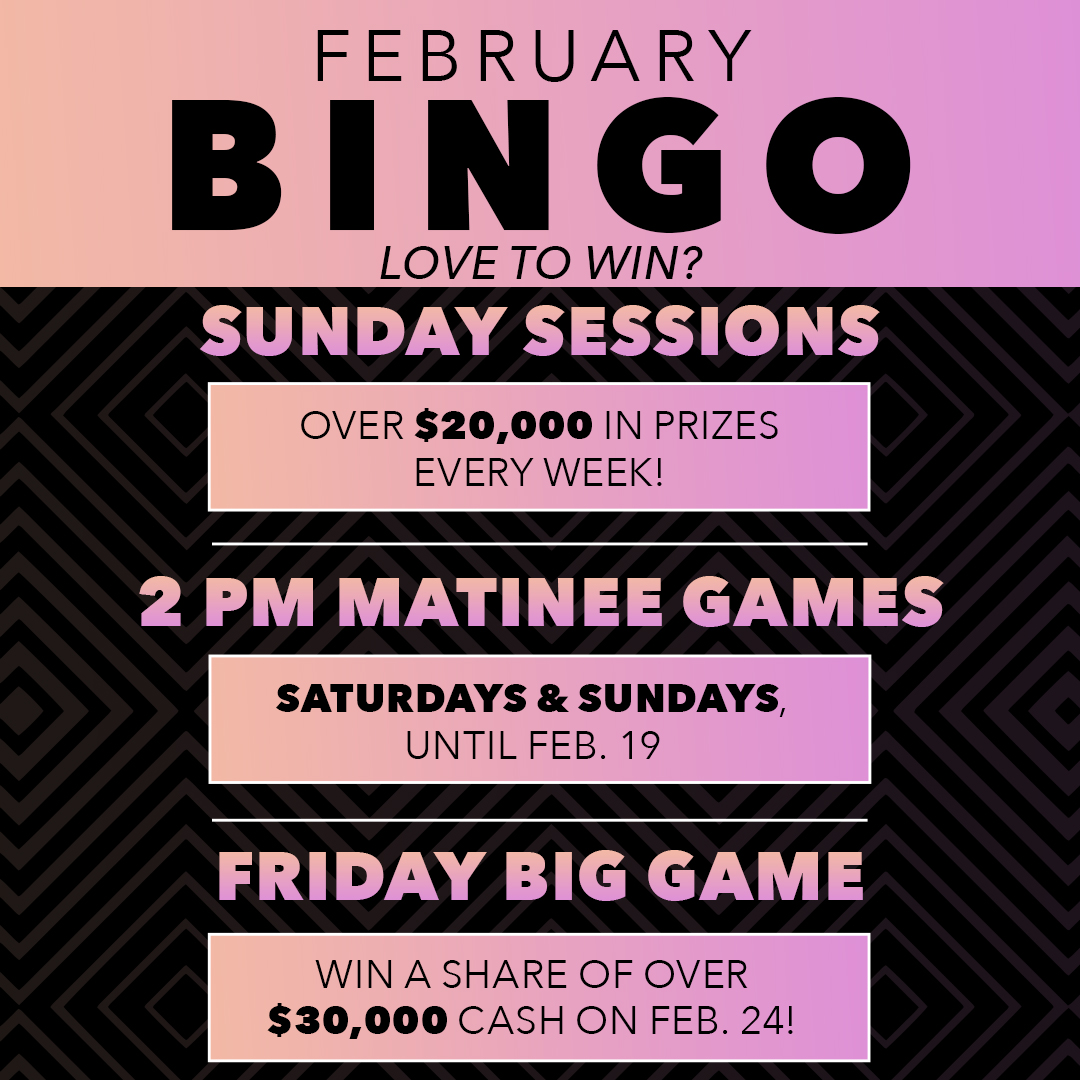
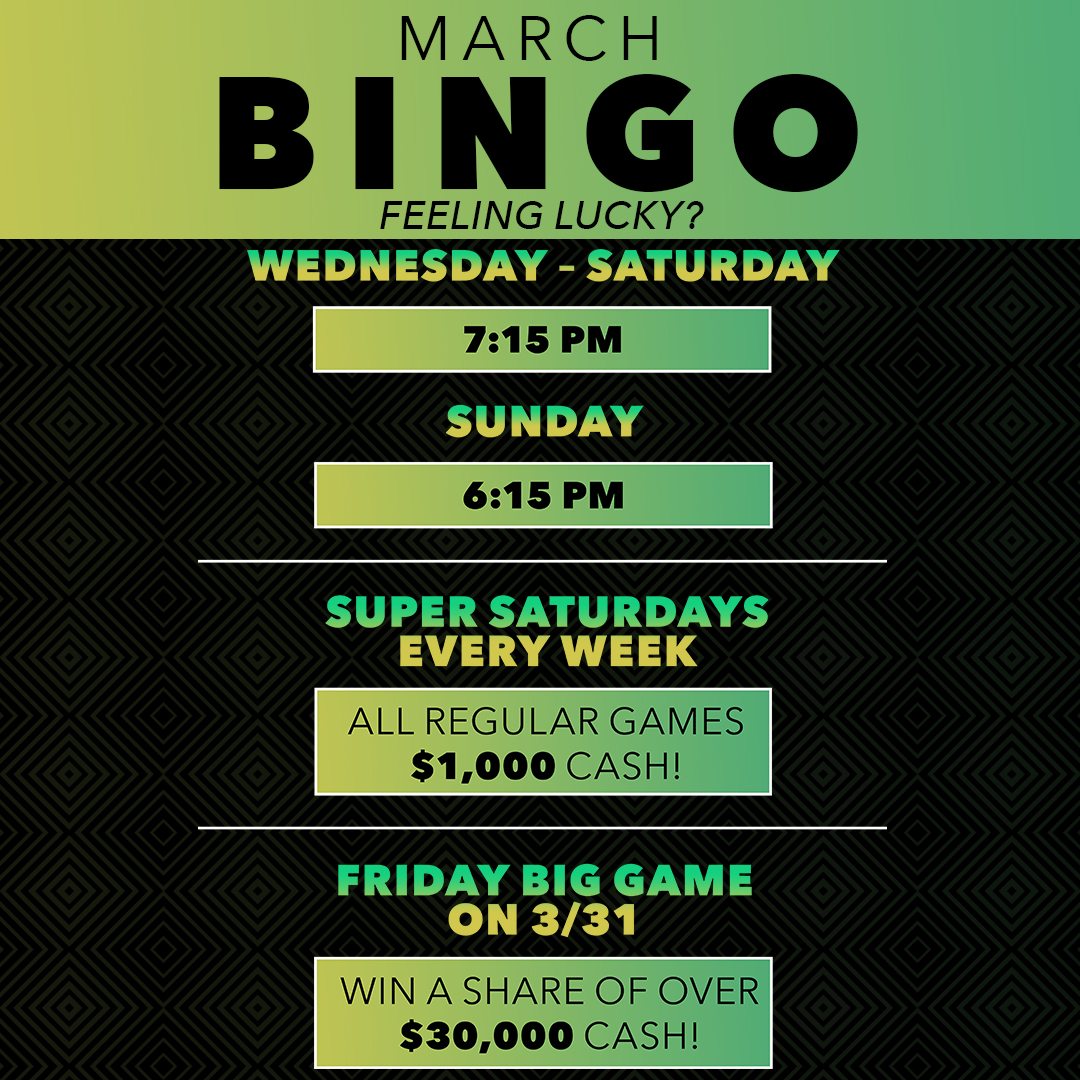
updated bingo promos

diff --git a/src/services/functions/popups/popupManager.js b/src/services/functions/popups/popupManager.js
@@ -3,9 +3,7 @@
 //import mrgImage from 'assets/media/img/popups/florida-resident-discount-popup_B.png';
 
 //JAN BINGO PROMO HERE
-//import mrgImage from 'assets/media/img/popups/bingo_promo_en.jpg';
-//import mrgImage from 'assets/media/img/popups/valentines-promo.jpeg';
-import mrgImage from 'assets/media/img/popups/SIGN-UP_biggame-popup.jpeg';
+import mrgImage from 'assets/media/img/popups/bingo_promo_en.jpg';
 
 import aidImage from 'assets/media/img/popups/bingo_promo_en.jpg';
 import promoImage1 from 'assets/media/img/popups/bingo_promo_en.jpg';
@@ -84,24 +82,28 @@ const mrgPopup = {
     start: {
       year: '23',
       month: 'February',
-      day: '12',
-      time: '12:00',
+      day: '28',
+      time: '',
     },
     end: {
       year: '23',
-      month: 'February',
-      day: '19',
+      month: 'April',
+      day: '1',
       time: '',
     },
   }),
   viewCount: 1,
+  /*
+  //USE THIS FOR SIGN UP ON CLICK OF POPUP 
   content: {
     image: mrgImage,
     alt: 'big game promotion',
     linkType: 'internal',
     link: '/mcr/signup',
   },
+  */
   /*
+  USE THIS FOR CLICK TO CALL ACCOMMODATIONS 
   content: {
     image: mrgImage,
     alt: 'resort promotion',
@@ -109,7 +111,6 @@ const mrgPopup = {
     link: 'tel:+13059252555',
   },
   */
-  /*
   content: {
     image: mrgImage,
     alt: 'Bingo Promotion',
@@ -117,7 +118,6 @@ const mrgPopup = {
     link: '/mcr/bingo',
     linkType: 'internal',
   },
-  */
 };
 const mrgGamingPromotionsPopup = {
   name: 'mrgGamingPromotions',

diff --git a/src/views/MRG/Pages/gaming/bingo/bingo.js b/src/views/MRG/Pages/gaming/bingo/bingo.js
@@ -90,7 +90,7 @@ const Bingo = () => {
                   </li>
                 </ul>
 
-                {isRunning([2023, 1, 1], [2023, 2, 1]) ? (
+                {isRunning([2023, 2, 28], [2023, 4, 1]) ? (
                   <img
                     style={{
                       width: '100%',
